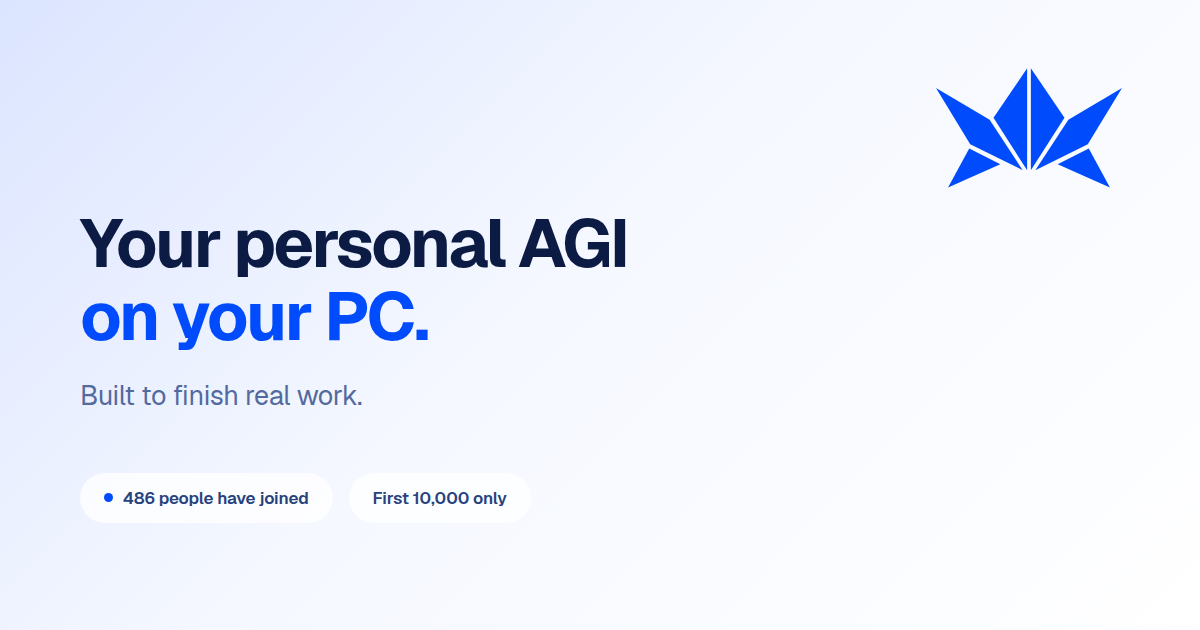
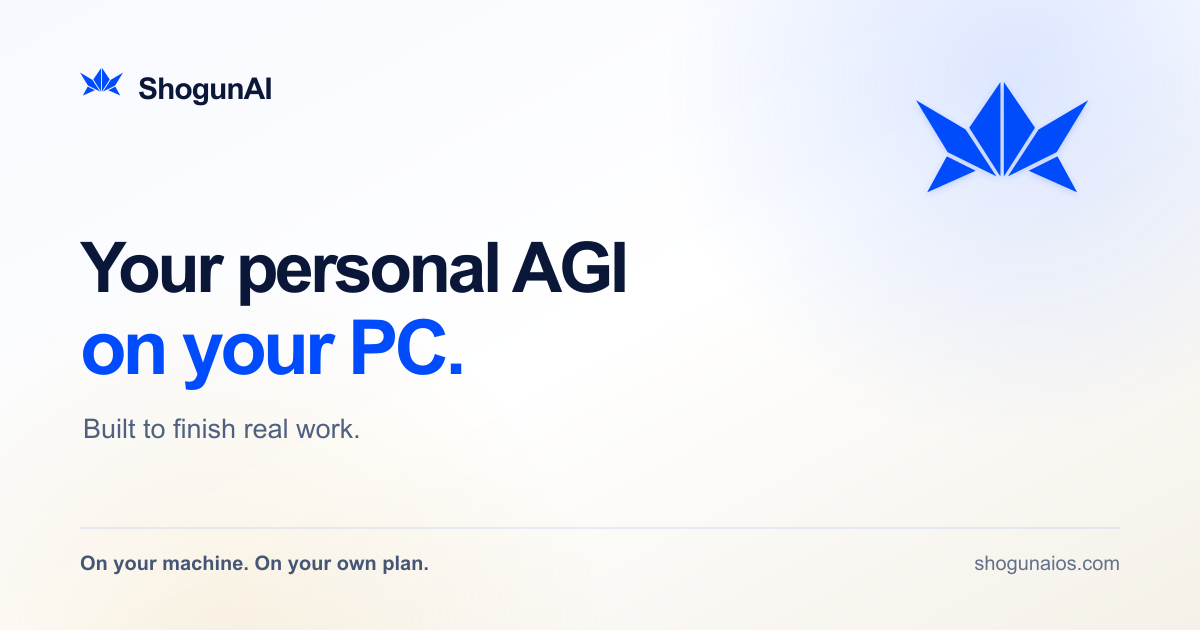
fix(website): refresh OGP without live count

diff --git a/apps/website/src/app/opengraph-image.tsx b/apps/website/src/app/opengraph-image.tsx
@@ -5,7 +5,7 @@ export const alt = `${siteConfig.name} — ${siteConfig.tagline}`;
 export const size = { width: 1200, height: 630 };
 export const contentType = 'image/png';
 
-/** Dynamic Open Graph image. Self-contained (no external assets). */
+/** Dynamic Open Graph fallback. Keep it aligned with public/og-image.png. */
 export default function OpengraphImage() {
   return new ImageResponse(
     (
@@ -17,7 +17,7 @@ export default function OpengraphImage() {
           flexDirection: 'column',
           justifyContent: 'center',
           padding: '80px',
-          background: 'linear-gradient(135deg, #d8f6ff 0%, #f7fdff 45%, #ffffff 100%)',
+          background: 'linear-gradient(135deg, #f7f9ff 0%, #ffffff 52%, #f5f1e8 100%)',
           fontFamily: 'sans-serif',
         }}
       >
@@ -41,6 +41,8 @@ export default function OpengraphImage() {
         <div
           style={{
             marginTop: 40,
+            display: 'flex',
+            flexDirection: 'column',
             fontSize: 68,
             fontWeight: 700,
             lineHeight: 1.05,
@@ -49,9 +51,10 @@ export default function OpengraphImage() {
             maxWidth: 900,
           }}
         >
-          Your personal AGI on your PC.
+          <span>Your personal AGI</span>
+          <span style={{ color: '#004cfc' }}>on your PC.</span>
         </div>
-        <div style={{ marginTop: 28, fontSize: 30, color: '#5f6b73' }}>
+        <div style={{ marginTop: 28, fontSize: 30, color: '#50617f' }}>
           Built to finish real work.
         </div>
       </div>

diff --git a/apps/website/src/app/layout.tsx b/apps/website/src/app/layout.tsx
@@ -48,14 +48,14 @@ export const metadata: Metadata = {
     title: `${siteConfig.name} — ${siteConfig.tagline}`,
     description: siteConfig.description,
     url: siteConfig.url,
-    images: [{ url: '/og-image.png', width: 1200, height: 630, alt: 'ShogunAI' }],
+    images: [{ url: '/og-image.png?v=20260821', width: 1200, height: 630, alt: 'ShogunAI — Your personal AGI on your PC.' }],
   },
   twitter: {
     card: 'summary_large_image',
     site: siteConfig.twitter,
     title: `${siteConfig.name} — ${siteConfig.tagline}`,
     description: siteConfig.description,
-    images: ['/og-image.png'],
+    images: ['/og-image.png?v=20260821'],
   },
   robots: { index: true, follow: true },
 };
